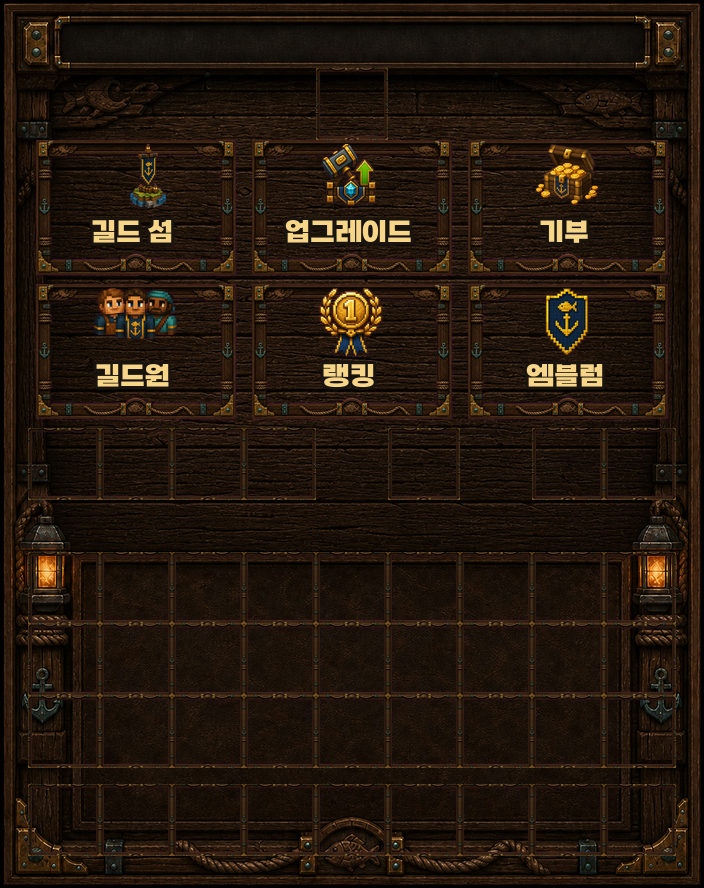
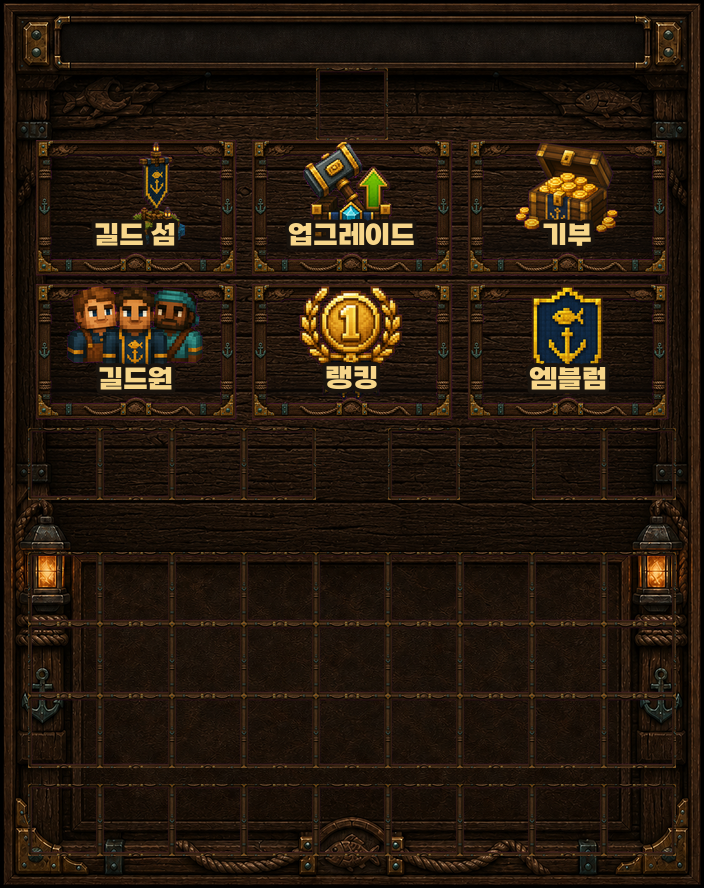
길드 타일 — 아이콘을 꽉 채우고 라벨을 그 위에
글자 자리를 따로 비워 두는 방식(발주서의 40px 띠)은 이 액자에서 못 쓴다. 구멍이 169x96
뿐이라 띠를 빼면 아이콘이 36px 짜리 점이 된다. 띠를 없애고 구멍+베벨까지 아이콘에 내준 뒤
라벨을 아래쪽에 겹쳐 굽는다.

## 겹친 글자를 읽히게
· stroke 4 · 밑단 정렬 — textbbox 는 (0,0) 기준 상자라 높이만 빼면 bb[1] 만큼 위로 뜬다.
  그래서 처음엔 글자가 아이콘 한가운데 걸쳤다.
· 글자 뒤에 아래로 갈수록 짙어지는 어둠(스크림)을 깐다. 금색 글자가 금색 아이콘(랭킹 메달·
  기부 금화) 위에 얹히면 게임 크기에서 뭉개진다 — 띠처럼 보이지 않게 그라데이션으로.

diff --git a/gui-forge/assemble_tile_plate.py b/gui-forge/assemble_tile_plate.py
@@ -43,12 +43,15 @@ PARTS = {
     },
 }
 
-# ★발주서의 띠 값(40)을 그대로 쓰면 안 된다. 실제로 온 액자는 테두리가 두꺼워 구멍이
-#   169x96 뿐이라, 거기서 40+여백을 빼면 아이콘이 36px 짜리 점이 된다(첫 조립 실측).
-#   글자는 30px 띠면 충분하고, 아이콘은 안쪽 베벨 위로 조금 걸쳐도 자연스럽다.
-LABEL_BAND = 30                # 타일 아래 글자 자리
+# 아이콘은 **타일을 꽉 채우고 글자가 그 위에 얹힌다**. 글자 자리를 따로 비워 두면
+# (발주서의 40px 띠) 구멍이 169x96 뿐인 이 액자에서는 아이콘이 36px 짜리 점이 된다.
+# 그래서 띠를 없애고 구멍 + 베벨까지 아이콘에 내준 다음, 라벨을 아래쪽에 겹쳐 굽는다.
+# 겹쳐도 읽히게 테두리(stroke)를 두껍게 준다 — 그림 위 글자는 stroke 가 전부다.
 ICON_PAD = 2
-ICON_BLEED = 14                # 구멍 밖(액자 안쪽 베벨)으로 아이콘이 번져도 되는 폭
+ICON_BLEED = 16                # 구멍 밖(액자 안쪽 베벨)으로 아이콘이 번져도 되는 폭
+LABEL_DROP = 2                 # 라벨 밑단을 구멍 아래에서 띄우는 여유
+SCRIM_H = 42                   # 라벨 뒤에 까는 어둠의 높이
+SCRIM_A = 165                  # 그 어둠의 최대 불투명도
 
 
 def font(px):
@@ -105,18 +108,29 @@ def build(name):
         x0, y0 = box[0], box[1]
         bg.alpha_composite(tile, (x0, y0))
         icon = sprite(spec["icons"][label])
-        area_w = hx1 - hx0 + 2 * ICON_BLEED - 2 * ICON_PAD
-        area_h = hy1 - hy0 + ICON_BLEED - LABEL_BAND - 2 * ICON_PAD
+        area_w = hx1 - hx0 + 2 * (ICON_BLEED - ICON_PAD)
+        area_h = hy1 - hy0 + 2 * (ICON_BLEED - ICON_PAD)
         icon = fit(icon, area_w, area_h)
-        top = y0 + hy0 - ICON_BLEED + ICON_PAD
-        bg.alpha_composite(icon, (x0 + hx0 + (hx1 - hx0 - icon.width) // 2,
-                                  top + (area_h - icon.height) // 2))
-        # 라벨 — 아그로체로 굽는다. 테두리(stroke)를 줘야 나무결 위에서 읽힌다.
+        cx = x0 + (hx0 + hx1) // 2
+        cy = y0 + (hy0 + hy1) // 2
+        bg.alpha_composite(icon, (cx - icon.width // 2, cy - icon.height // 2))
+        # ★금색 글자가 금색 아이콘 위에 겹치면 게임 크기에서 뭉갠다(실측 — 랭킹 메달·기부
+        #   금화가 그랬다). 아이콘은 그대로 두고 글자 아래에만 어둠을 깔아 대비를 만든다.
+        #   아래로 갈수록 짙어지는 그라데이션이라 띠처럼 보이지 않는다.
+        scrim = Image.new("RGBA", (hx1 - hx0, SCRIM_H), (0, 0, 0, 0))
+        sp = scrim.load()
+        for yy in range(SCRIM_H):
+            a = int(SCRIM_A * (yy / (SCRIM_H - 1)) ** 1.6)
+            for xx in range(scrim.width):
+                sp[xx, yy] = (12, 9, 7, a)
+        bg.alpha_composite(scrim, (x0 + hx0, y0 + hy1 - SCRIM_H))
+        # 라벨은 아이콘 **위에** 얹는다. 그림 위 글자라 stroke 가 두꺼워야 읽힌다.
         f = font(26)
-        bb = d.textbbox((0, 0), label, font=f, stroke_width=3)
-        d.text((x0 + hx0 + (hx1 - hx0 - (bb[2] - bb[0])) // 2,
-                y0 + hy1 - LABEL_BAND + (LABEL_BAND - (bb[3] - bb[1])) // 2 - 4),
-               label, font=f, fill=GOLD_HI, stroke_width=3, stroke_fill=INK)
+        bb = d.textbbox((0, 0), label, font=f, stroke_width=4)
+        # ★textbbox 는 (0,0) 기준 상자다 — 높이만 빼면 bb[1] 만큼 위로 뜬다. 밑단을 맞추려면
+        #   bb[3] 을 빼야 한다. 그렇게 안 해서 글자가 아이콘 한가운데 걸쳤다(실측).
+        d.text((cx - (bb[0] + bb[2]) // 2, y0 + hy1 - LABEL_DROP - bb[3]),
+               label, font=f, fill=GOLD_HI, stroke_width=4, stroke_fill=INK)
 
     # ── 작은 칸(정보칸 · 아래 버튼 줄 · 플레이어 인벤) ────────
     cell = A.make_frame(spec["cell"])          # 구멍이 정확히 64px 인 72x72
